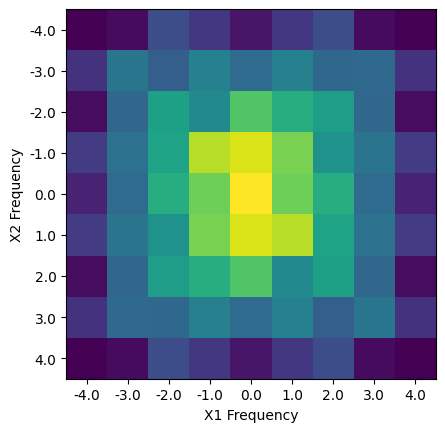
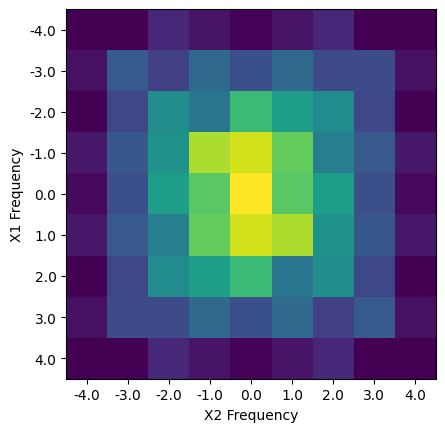
added sanity check

diff --git a/docs/coefficients.md b/docs/coefficients.md
@@ -157,7 +157,7 @@ Currently, our implementation supports only one input feature, albeit more are t
 ## Multi-Dimensional Coefficients
 
 The `get_spectrum` method can also be used to calculate the coefficients of a model with multiple input dimensions.
-This feature can be enabled, by explicitly providing an encoding that supports multi-dimensional input, e.g. a list of single encodings (see [*Usage*](usage.md) for details). 
+This feature can be enabled, by explicitly providing an encoding that supports multi-dimensional input, e.g. a list of single encodings (see [*Usage*](usage.md) for details on how encodings are applied). 
 Currently, only the FFT-based method supports this.
 
 ```python
@@ -179,3 +179,5 @@ Using a logarithmic color bar, one obtains the following 2d-spectrum:
 
 ![2D Model Coefficients](model_2d_psd_light.png#only-light)
 ![2D Model Coefficients](model_2d_psd_dark.png#only-dark)
+
+Note that "X1" refers to the "RX" encoding and "X2" to the "RY" encoding.

diff --git a/docs/usage.md b/docs/usage.md
@@ -80,7 +80,7 @@ The default encoding is "RX" which will result in a single RX rotation per qubit
 Other options are:
 
 - A string such as `"RX"` that will result in a single RX rotation per qubit
-- A list of strings such as `["RX", "RY"]` that will result in a RX and RY rotation per qubit
+- A list of strings such as `["RX", "RY"]` that will result in a sequential RX and RY rotation per qubit
 - Any callable such as `Gates.RX`
 - A list of callables such as `[Gates.RX, Gates.RY]`
 
